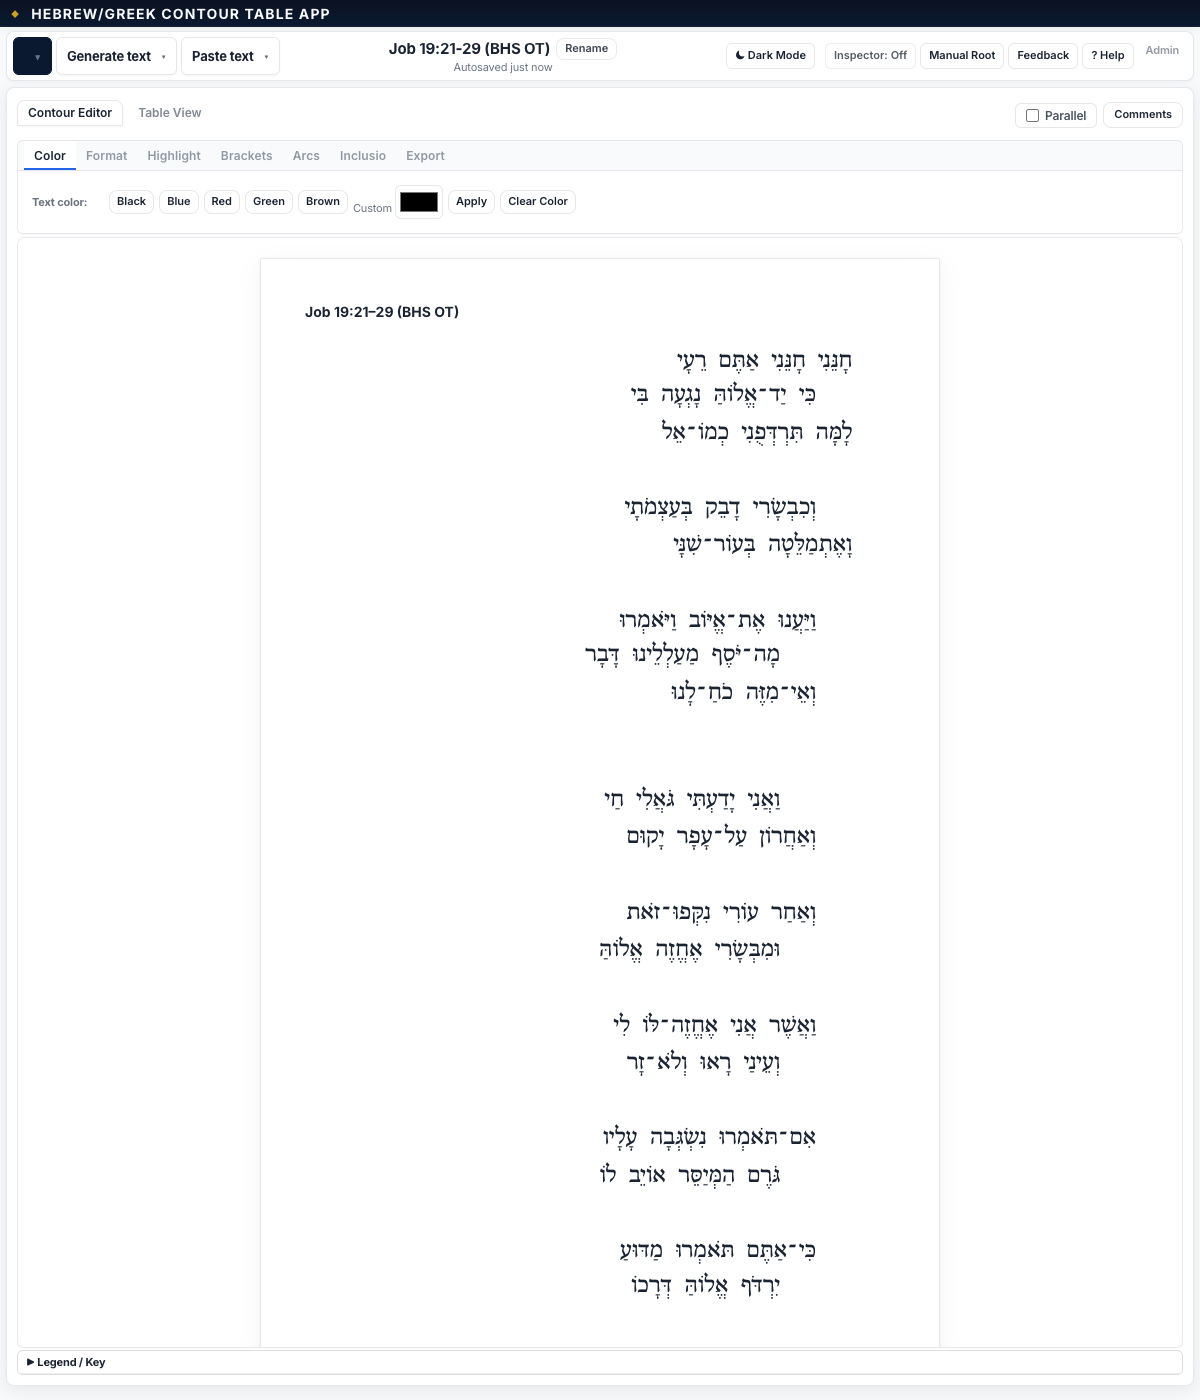
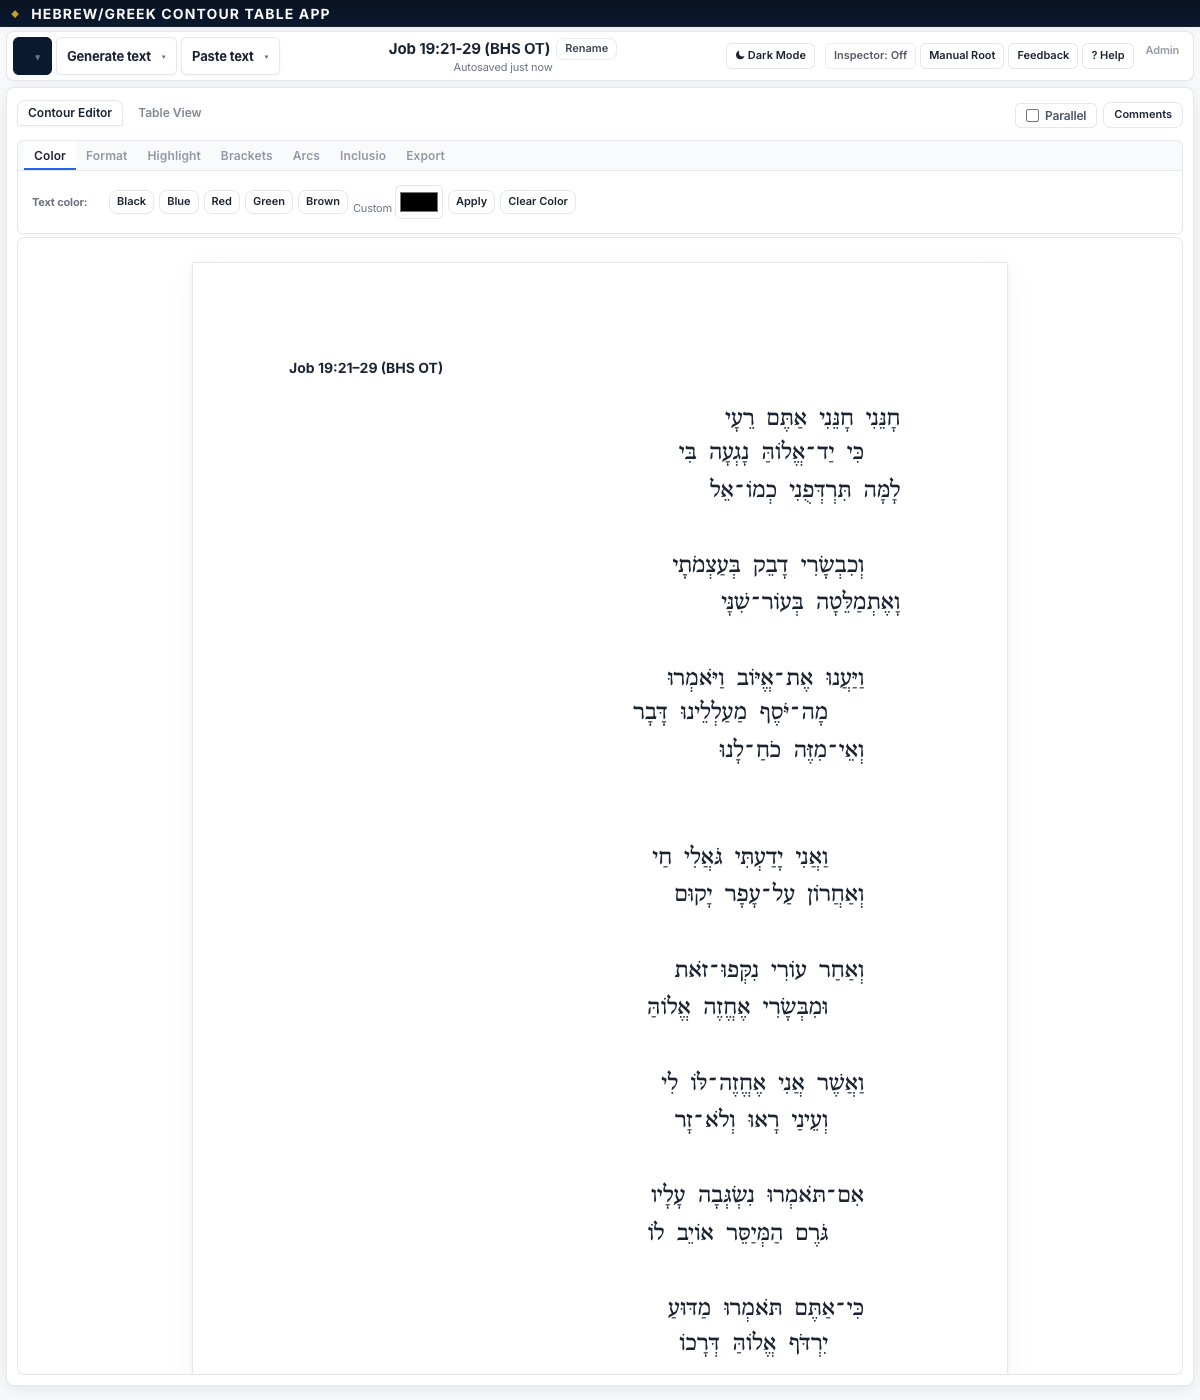
Fix passage title bidi and match Letter page geometry.
Move the title outside the RTL editor, preserve (BHS OT) suffixes, and size the document sheet to 816px with 1in margins so the contour aligns with Word proportions.

Changed region(s): [[0.4933, 0.2457, 0.74, 0.9829], [0.2467, 0.215, 0.37, 0.2764], [0.0308, 0.9521, 0.0925, 0.9829]]

diff --git a/js/app/layout.js b/js/app/layout.js
@@ -30,8 +30,8 @@ function render(){applyLanguageLayout();syncStateBundle();if(typeof syncAllPaneI
 function wordFormatClasses(w,l){let f=w.format||{};let suppressCommentStart=l&&isCommentBoundary(l,'start')&&!w.bracketSource;let suppressCommentEnd=l&&isCommentBoundary(l,'end')&&!w.bracketSource;let incCls=typeof inclusioWordHighlightClass==='function'&&l?inclusioWordHighlightClass(l,w):'';let inclusioQuiet=w.bracketSource==='inclusio'?'inclusio-bracket':'';return `${f.bold?'fmt-bold':''} ${f.italic?'fmt-italic':''} ${f.underline?'fmt-underline':''} ${f.doubleUnderline?'fmt-double-underline':''} ${f.highlight?'fmt-highlight':''} ${(w.bracketStart&&!suppressCommentStart)?'bracket-start':''} ${(w.bracketEnd&&!suppressCommentEnd)?'bracket-end':''} ${inclusioQuiet} ${incCls}`.replace(/\s+/g,' ').trim();}
 function wordInlineStyle(w){let styles=[];if(w.color)styles.push('color:'+esc(w.color));if(w.format&&w.format.highlight)styles.push('background-color:'+esc(w.format.highlight));let bc=w.bracketColor||w.inclusioColor;if(bc)styles.push('--bracket-color:'+esc(bc));return styles.join(';');}
 function renderWordTokensInClause(words,opt){const vi=opt.vi,ci=opt.ci,pane=opt.pane,paneState=opt.paneState||state,activeKey=opt.activeKey||'',forExport=!!(opt&&opt.forExport);const selLoc=opt.selLoc||(paneState&&paneState.selected);const idsFn=opt.idsForLoc||(pane!=null?(l=>commentIdsForLocInPane(l,pane)):(l=>commentIdsForLoc(l)));const markersFn=opt.markersForLoc||(pane!=null?(l=>commentMarkersForLocInPane(l,pane)):(l=>commentMarkersForLoc(l)));let html='';words.forEach((w,wi)=>{if(isMaqafConnector(w)){const hidden=forExport?'':' aria-hidden="true"';html+=`<span class="maqaf-connector"${hidden}>${esc(w.text||MAQAF_CHAR)}</span>`;return;}ensureSelectableWordFields(w);const l=pane!=null?{v:vi,c:ci,w:wi,pane}:{v:vi,c:ci,w:wi};const ids=idsFn(l);const commentClass=ids.length?'comment-anchored':'';const activeCommentClass=(paneState.activeCommentId&&ids.includes(paneState.activeCommentId))?'comment-active':'';const wsel=selLoc&&selLoc.v===vi&&selLoc.c===ci&&selLoc.w===wi;const same=activeKey&&normalizeHebrewWord(w.text)===activeKey&&!wsel;const paneAttr=pane!=null?` data-pane="${pane}"`:'';const specials=w.specials||[];html+=`<span class="word ${wsel?'selected':''} ${same?'sameword':''} ${commentClass} ${activeCommentClass} ${w.deleted?'deleted':''} ${specials.includes('predicate')?'pred':''} ${specials.includes('subject')?'subj':''} ${w.color?'has-text-color':''} ${wordFormatClasses(w,l)}"${paneAttr} data-v="${vi}" data-c="${ci}" data-w="${wi}" style="${wordInlineStyle(w)}">${esc(w.text)}</span>${markersFn(l)}`;if(needsSpaceAfterWord(words,wi))html+=' ';});return html;}
-function renderEditor(){const ed=document.getElementById('editor');const wrap=document.getElementById('editorWrap');if(wrap)wrap.classList.add('contour-document-surface');const layout=getLanguageLayout();const scriptStyle=`direction:${layout.dir};text-align:${layout.textAlign};font-family:${layout.fontFamily}`;ensureComments();function restoreArcSvgLayer(){if(typeof ensureArcSvgLayer==='function')ensureArcSvgLayer();}if(!state.verses.length){ed.classList.remove('contour-document-page');ed.innerHTML='<div class="editor-empty-state" dir="ltr"><p class="editor-empty-title">No text loaded yet</p><p class="muted">Use <strong>Generate text</strong> or <strong>Paste text</strong> in the menu bar above.</p></div>';restoreArcSvgLayer();hideCommentPopover();return;}ed.classList.add('contour-document-page');ed.innerHTML=buildContourEditorHtmlFromState();restoreArcSvgLayer();document.querySelectorAll('.word').forEach(el=>el.onclick=(ev)=>{let clicked={v:+el.dataset.v,c:+el.dataset.c,w:+el.dataset.w};if(ev.shiftKey&&locOK(state.selected)){applyBracketRange(state.selected,clicked);return;}state.selected=clicked;let ids=commentIdsForLoc(clicked);if(ids.length)state.activeCommentId=ids[0];render();});document.querySelectorAll('.comment-marker').forEach(el=>el.onclick=(ev)=>{ev.stopPropagation();activateComment(el.dataset.commentId);});}
-function buildContourEditorHtmlFromState(forExport){const layout=getLanguageLayout();const scriptStyle=`direction:${layout.dir};text-align:${layout.textAlign};font-family:${layout.fontFamily}`;ensureComments();if(!state.verses.length)return '';let html='';if(!forExport&&state.ref&&typeof contourPassageTitleHtml==='function')html+=contourPassageTitleHtml(state.ref);let activeKey=selectedWordKey();const exportMode=!!forExport;const clauseCls=typeof clauseLayoutClassNames==='function'?clauseLayoutClassNames:(c,sel)=>'clause'+(sel?' selected':'');const verseCls=typeof verseBlockClassNames==='function'?verseBlockClassNames:()=>'verse-block';const refHtml=typeof contourVerseRefHtml==='function'?contourVerseRefHtml:(v,vi)=>`<div class="muted verse-ref" dir="ltr">${esc(v.ref)}</div>`;state.verses.forEach((v,vi)=>{html+=`<div class="${verseCls(v)}" data-v="${vi}">`;html+=refHtml(v,vi);v.clauses.forEach((c,ci)=>{let sel=state.selected&&state.selected.v==vi&&state.selected.c==ci;let marginStyle=layout.indentSide==='left'?`margin-left:${c.indent*36}px`:`margin-right:${c.indent*36}px`;html+=`<div class="${clauseCls(c,sel)}" data-v="${vi}" data-c="${ci}" dir="${layout.dir}" style="${marginStyle};${scriptStyle}">`;html+=renderWordTokensInClause(c.words,{vi,ci,paneState:state,activeKey,selLoc:state.selected,forExport:exportMode});html+='</div>';});html+='</div>';});return html;}
+function renderEditor(){const ed=document.getElementById('editor');const wrap=document.getElementById('editorWrap');if(wrap)wrap.classList.add('contour-document-surface');const layout=getLanguageLayout();const scriptStyle=`direction:${layout.dir};text-align:${layout.textAlign};font-family:${layout.fontFamily}`;ensureComments();function restoreArcSvgLayer(){if(typeof ensureArcSvgLayer==='function')ensureArcSvgLayer();}if(!state.verses.length){ed.classList.remove('contour-document-page');if(typeof syncContourPassageTitle==='function')syncContourPassageTitle();ed.innerHTML='<div class="editor-empty-state" dir="ltr"><p class="editor-empty-title">No text loaded yet</p><p class="muted">Use <strong>Generate text</strong> or <strong>Paste text</strong> in the menu bar above.</p></div>';restoreArcSvgLayer();hideCommentPopover();return;}ed.classList.add('contour-document-page');if(typeof applyDocumentPageEditorTypography==='function')applyDocumentPageEditorTypography(ed,layout);ed.innerHTML=buildContourEditorHtmlFromState();if(typeof syncContourPassageTitle==='function')syncContourPassageTitle();restoreArcSvgLayer();document.querySelectorAll('.word').forEach(el=>el.onclick=(ev)=>{let clicked={v:+el.dataset.v,c:+el.dataset.c,w:+el.dataset.w};if(ev.shiftKey&&locOK(state.selected)){applyBracketRange(state.selected,clicked);return;}state.selected=clicked;let ids=commentIdsForLoc(clicked);if(ids.length)state.activeCommentId=ids[0];render();});document.querySelectorAll('.comment-marker').forEach(el=>el.onclick=(ev)=>{ev.stopPropagation();activateComment(el.dataset.commentId);});}
+function buildContourEditorHtmlFromState(forExport){const layout=getLanguageLayout();const scriptStyle=`direction:${layout.dir};text-align:${layout.textAlign};font-family:${layout.fontFamily}`;ensureComments();if(!state.verses.length)return '';let html='';let activeKey=selectedWordKey();const exportMode=!!forExport;const clauseCls=typeof clauseLayoutClassNames==='function'?clauseLayoutClassNames:(c,sel)=>'clause'+(sel?' selected':'');const verseCls=typeof verseBlockClassNames==='function'?verseBlockClassNames:()=>'verse-block';const refHtml=typeof contourVerseRefHtml==='function'?contourVerseRefHtml:(v,vi)=>`<div class="muted verse-ref" dir="ltr">${esc(v.ref)}</div>`;state.verses.forEach((v,vi)=>{html+=`<div class="${verseCls(v)}" data-v="${vi}">`;html+=refHtml(v,vi);v.clauses.forEach((c,ci)=>{let sel=state.selected&&state.selected.v==vi&&state.selected.c==ci;let marginStyle=layout.indentSide==='left'?`margin-left:${c.indent*36}px`:`margin-right:${c.indent*36}px`;html+=`<div class="${clauseCls(c,sel)}" data-v="${vi}" data-c="${ci}" dir="${layout.dir}" style="${marginStyle};${scriptStyle}">`;html+=renderWordTokensInClause(c.words,{vi,ci,paneState:state,activeKey,selLoc:state.selected,forExport:exportMode});html+='</div>';});html+='</div>';});return html;}
 function clauseRows(){let rows=[];state.verses.forEach((v,vi)=>v.clauses.forEach((c,ci)=>{let words=joinWordsForDisplay(c.words.filter(w=>!w.deleted));let notes=c.words.filter(w=>w.note&&!isMaqafConnector(w)).map(w=>'['+w.text+'] — '+w.note).join('; ');let trans=c.words.filter(w=>w.translation&&!isMaqafConnector(w)).map(w=>'['+w.text+'] — '+w.translation).join('; ');rows.push({vi,ci,ref:v.ref,clause:ci+1,hebrew:words,indent:c.indent,notes,translation:trans,ann:c.ann||{}});}));return rows;}
 function renderTable(){let rows=clauseRows();let textHeader=(state.language==='greek'?'Greek Text':'Hebrew Text');let textClass=(state.language==='greek'?'greek':'heb');let ltr=' class="ann-ltr" dir="ltr"';let html='<table id="annTable" dir="ltr"><thead><tr><th class="'+textClass+'">'+textHeader+'</th><th'+ltr+'>Translation</th><th'+ltr+'>Gloss</th><th'+ltr+'>Parsing</th><th'+ltr+'>Notes</th>';state.columns.forEach(col=>html+=`<th class="ann-ltr" dir="ltr">${esc(col)}</th>`);html+='</tr></thead><tbody>';rows.forEach(r=>{html+=`<tr data-v="${r.vi}" data-c="${r.ci}"><td class="${textClass}">${esc(r.hebrew)}</td><td class="ann-ltr" dir="ltr" contenteditable data-col="Translation">${esc(r.ann['Translation']||'')}</td><td class="ann-ltr" dir="ltr">${esc(r.translation)}</td><td class="ann-ltr" dir="ltr" contenteditable data-col="Parsing">${esc(r.ann['Parsing']||'')}</td><td class="ann-ltr" dir="ltr">${esc(r.notes)}</td>`;state.columns.forEach(col=>html+=`<td class="ann-ltr" dir="ltr" contenteditable data-col="${esc(col)}">${esc(r.ann[col]||'')}</td>`);html+='</tr>';});html+='</tbody></table>';const tableWrap=document.getElementById('tableWrap');tableWrap.innerHTML=html;tableWrap.dir='ltr';tableWrap.style.direction='ltr';tableWrap.style.textAlign='left';document.querySelectorAll('#annTable td[contenteditable]').forEach(td=>{applyLtrAnnotationInput(td);td.oninput=()=>{if(!td._undoSnap){markUndo();td._undoSnap=1;}let tr=td.closest('tr'),c=state.verses[+tr.dataset.v].clauses[+tr.dataset.c];c.ann=c.ann||{};c.ann[td.dataset.col]=td.innerText;if(autosaveReady)autoSaveProject();};});}
 function insertBreak(){markUndo();let l=state.selected;if(!locOK(l)||l.w===0)return;let v=l.v,c=l.c,w=l.w;let cl=state.verses[v].clauses[c];let newc={indent:cl.indent,words:cl.words.slice(w),specials:[],ann:{}};cl.words=cl.words.slice(0,w);const isLastClause=c===state.verses[v].clauses.length-1;const hasNextVerse=v+1<state.verses.length;if(isLastClause&&hasNextVerse){state.verses[v+1].clauses.unshift(newc);applyStructureRemap(mapSplitClauseCrossVerse(v,c,w));state.selected={v:v+1,c:0,w:0};}else{state.verses[v].clauses.splice(c+1,0,newc);applyStructureRemap(mapSplitClause(v,c,w));state.selected={v,c:c+1,w:0};}render();}

diff --git a/styles/contour-document-presentation.css b/styles/contour-document-presentation.css
@@ -1,10 +1,52 @@
-/* Contour document presentation — centered page, comfortable margins (editor only) */
+/* Contour document presentation — US Letter page geometry (presentation only) */
+
+:root {
+  --contour-letter-width: 816px;   /* 8.5in @ 96dpi */
+  --contour-letter-margin: 96px;   /* 1in margins */
+  --contour-letter-min-height: 1056px; /* 11in @ 96dpi */
+}
 
 #editorWrap.contour-document-surface {
   background: #e9edf2;
-  padding: 20px 12px 28px;
+  padding: 24px 16px 32px;
   overflow-x: hidden;
   overflow-y: auto;
+}
+
+#editorWrap.contour-document-surface .contour-document-sheet {
+  direction: ltr;
+  text-align: left;
+  flex: none !important;
+  width: 100%;
+  max-width: var(--contour-letter-width);
+  min-height: var(--contour-letter-min-height);
+  margin: 0 auto;
+  padding: var(--contour-letter-margin);
+  box-sizing: border-box;
+  background: #fff;
+  border: 1px solid var(--hc-border, #d5dbe3);
+  border-radius: 2px;
+  box-shadow:
+    0 1px 3px rgba(15, 23, 42, 0.06),
+    0 8px 24px rgba(15, 23, 42, 0.05);
+}
+
+#contourPassageTitle.contour-passage-title {
+  display: block;
+  unicode-bidi: isolate;
+  direction: ltr;
+  text-align: left;
+  font-family: var(--hc-font-ui, Inter, system-ui, sans-serif) !important;
+  font-size: 14px !important;
+  font-weight: 700 !important;
+  line-height: 1.35 !important;
+  letter-spacing: 0;
+  color: var(--hc-text, #1e293b) !important;
+  margin: 0 0 24px 0 !important;
+}
+
+#contourPassageTitle.contour-passage-title[hidden] {
+  display: none !important;
 }
 
 #editorWrap.contour-document-surface #editor.contour-document-page {
@@ -12,27 +54,22 @@
   text-align: left !important;
   flex: none !important;
   width: 100%;
-  max-width: 680px;
-  min-height: 360px;
-  margin: 0 auto;
-  padding: 44px 76px 52px 44px !important;
-  background: #fff;
-  border: 1px solid var(--hc-border, #d5dbe3) !important;
-  border-radius: 2px !important;
-  box-shadow:
-    0 1px 3px rgba(15, 23, 42, 0.06),
-    0 8px 24px rgba(15, 23, 42, 0.05) !important;
+  max-width: none;
+  min-height: 0;
+  margin: 0;
+  padding: 0 !important;
+  background: transparent !important;
+  border: none !important;
+  border-radius: 0 !important;
+  box-shadow: none !important;
   box-sizing: border-box;
 }
 
-.lang-hebrew#editor.contour-document-page,
-#editor.contour-document-page.lang-hebrew {
-  padding: 44px 84px 52px 36px !important;
-}
-
-.lang-greek#editor.contour-document-page,
-#editor.contour-document-page.lang-greek {
-  padding: 44px 44px 52px 76px !important;
+#editor.contour-document-page.lang-hebrew .verse-block,
+.lang-hebrew#editor.contour-document-page .verse-block {
+  direction: rtl;
+  text-align: right;
+  width: 100%;
 }
 
 .contour-passage-title,
@@ -40,16 +77,6 @@
   unicode-bidi: isolate;
   direction: ltr;
   text-align: left;
-}
-
-.contour-passage-title {
-  font-family: var(--hc-font-ui, Inter, system-ui, sans-serif) !important;
-  font-size: 14px !important;
-  font-weight: 700 !important;
-  line-height: 1.35 !important;
-  letter-spacing: 0;
-  color: var(--hc-text, #1e293b) !important;
-  margin: 0 0 22px 0 !important;
 }
 
 #editor .verse-ref {
@@ -60,10 +87,10 @@ body.dark-mode #editorWrap.contour-document-surface {
   background: #1a2230;
 }
 
-body.dark-mode #editorWrap.contour-document-surface #editor.contour-document-page {
+body.dark-mode #editorWrap.contour-document-surface .contour-document-sheet {
   background: var(--hc-surface, #111827);
-  border-color: var(--hc-border, #334155) !important;
+  border-color: var(--hc-border, #334155);
   box-shadow:
     0 1px 3px rgba(0, 0, 0, 0.35),
-    0 8px 24px rgba(0, 0, 0, 0.25) !important;
+    0 8px 24px rgba(0, 0, 0, 0.25);
 }

diff --git a/js/app/layout-breaks.js b/js/app/layout-breaks.js
@@ -454,12 +454,48 @@ function verseRefHidden(verse) {
 }
 window.verseRefHidden = verseRefHidden;
 
+function formatPassageTitleDisplay(ref) {
+  const raw = String(ref || '').trim();
+  if (!raw) return '';
+  const suffixMatch = raw.match(/\s(\([^)]+\))\s*$/);
+  const suffix = suffixMatch ? ' ' + suffixMatch[1] : '';
+  const core = suffix ? raw.slice(0, suffixMatch.index).trim() : raw;
+  let text = typeof normalizePassageRangeRef === 'function'
+    ? normalizePassageRangeRef(core)
+    : core;
+  if (!text || text === core) text = core;
+  text = text.replace(/(\d)\s*-\s*(\d)/g, '$1\u2013$2');
+  return text + suffix;
+}
+window.formatPassageTitleDisplay = formatPassageTitleDisplay;
+
+function passageRefForDisplay() {
+  if (state && state.ref && String(state.ref).trim()) return String(state.ref).trim();
+  if (state && state.verses && state.verses.length === 1 && state.verses[0].ref) {
+    return String(state.verses[0].ref).trim();
+  }
+  return '';
+}
+window.passageRefForDisplay = passageRefForDisplay;
+
+function syncContourPassageTitle() {
+  const el = document.getElementById('contourPassageTitle');
+  if (!el) return;
+  const ref = passageRefForDisplay();
+  if (!state || !state.verses || !state.verses.length || !ref) {
+    el.hidden = true;
+    el.textContent = '';
+    return;
+  }
+  el.textContent = formatPassageTitleDisplay(ref);
+  el.hidden = false;
+  if (typeof applyLtrAnnotationInput === 'function') applyLtrAnnotationInput(el);
+}
+window.syncContourPassageTitle = syncContourPassageTitle;
+
 function contourPassageTitleHtml(ref) {
   if (!ref || !String(ref).trim()) return '';
-  let text = typeof normalizePassageRangeRef === 'function'
-    ? normalizePassageRangeRef(ref)
-    : String(ref).trim();
-  text = text.replace(/(\d)\s*-\s*(\d)/g, '$1\u2013$2');
+  const text = formatPassageTitleDisplay(ref);
   return `<div class="contour-passage-title" dir="ltr">${esc(text)}</div>`;
 }
 window.contourPassageTitleHtml = contourPassageTitleHtml;
@@ -467,6 +503,9 @@ window.contourPassageTitleHtml = contourPassageTitleHtml;
 function contourVerseRefHtml(verse, vi, opts) {
   opts = opts || {};
   if (verseRefHidden(verse)) return '';
+  if (!opts.parallel && vi === 0 && state && state.verses && state.verses.length === 1 && passageRefForDisplay()) {
+    return '';
+  }
   const ref = esc(verse.ref || '');
   if (opts.parallel) {
     const picked = !!opts.picked;

diff --git a/js/app/core.js b/js/app/core.js
@@ -95,6 +95,16 @@ function syncLanguageFromSource(){
   return state.language;
 }
 function applyLtrAnnotationInput(el){if(!el)return;el.dir='ltr';el.style.direction='ltr';el.style.textAlign='left';el.style.unicodeBidi='isolate';}
+function applyDocumentPageEditorTypography(ed, layout) {
+  if (!ed) return;
+  ed.dir = 'ltr';
+  ed.style.direction = 'ltr';
+  ed.style.textAlign = 'left';
+  ed.style.unicodeBidi = 'normal';
+  if (layout) ed.style.fontFamily = layout.fontFamily;
+}
+window.applyDocumentPageEditorTypography = applyDocumentPageEditorTypography;
+
 function applyScriptTypography(el,layout){
   if(!el||!layout)return;
   el.dir=layout.dir;
@@ -110,7 +120,11 @@ function applyLanguageLayout(){
   if(ed){
     ed.classList.remove('lang-hebrew','lang-greek');
     ed.classList.add(layout.language==='greek'?'lang-greek':'lang-hebrew');
-    applyScriptTypography(ed,layout);
+    if(ed.classList.contains('contour-document-page')&&state.verses&&state.verses.length){
+      applyDocumentPageEditorTypography(ed,layout);
+    }else{
+      applyScriptTypography(ed,layout);
+    }
   }
   const paste=document.getElementById('pasteBox');
   if(paste){

diff --git a/index.html b/index.html
@@ -19,7 +19,7 @@
 <link rel="stylesheet" href="styles/project-header.css?v=2">
 <link rel="stylesheet" href="styles/layout-breaks.css?v=2">
 <link rel="stylesheet" href="styles/project-view-prefs.css?v=2">
-<link rel="stylesheet" href="styles/contour-document-presentation.css?v=1">
+<link rel="stylesheet" href="styles/contour-document-presentation.css?v=2">
 </head>
 <body>
 <div id="passwordGate" class="password-gate">
@@ -310,7 +310,7 @@
       </div>
       <div id="singleEditorSection">
       <div class="contour-with-comments">
-        <div id="editorWrap" class="editor-arc-wrap"><svg id="arcSvg" aria-hidden="true"></svg><div id="editor"></div></div>
+        <div id="editorWrap" class="editor-arc-wrap"><svg id="arcSvg" aria-hidden="true"></svg><div class="contour-document-sheet"><div id="contourPassageTitle" class="contour-passage-title" dir="ltr" hidden></div><div id="editor"></div></div></div>
         <aside id="commentsPanel" class="comments-panel"></aside>
       </div>
       </div>

diff --git a/service-worker.js b/service-worker.js
@@ -1,4 +1,4 @@
-const CACHE_NAME = 'contour-app-pwa-v44';
+const CACHE_NAME = 'contour-app-pwa-v45';
 const APP_ASSETS = [
   './',
   './index.html',
